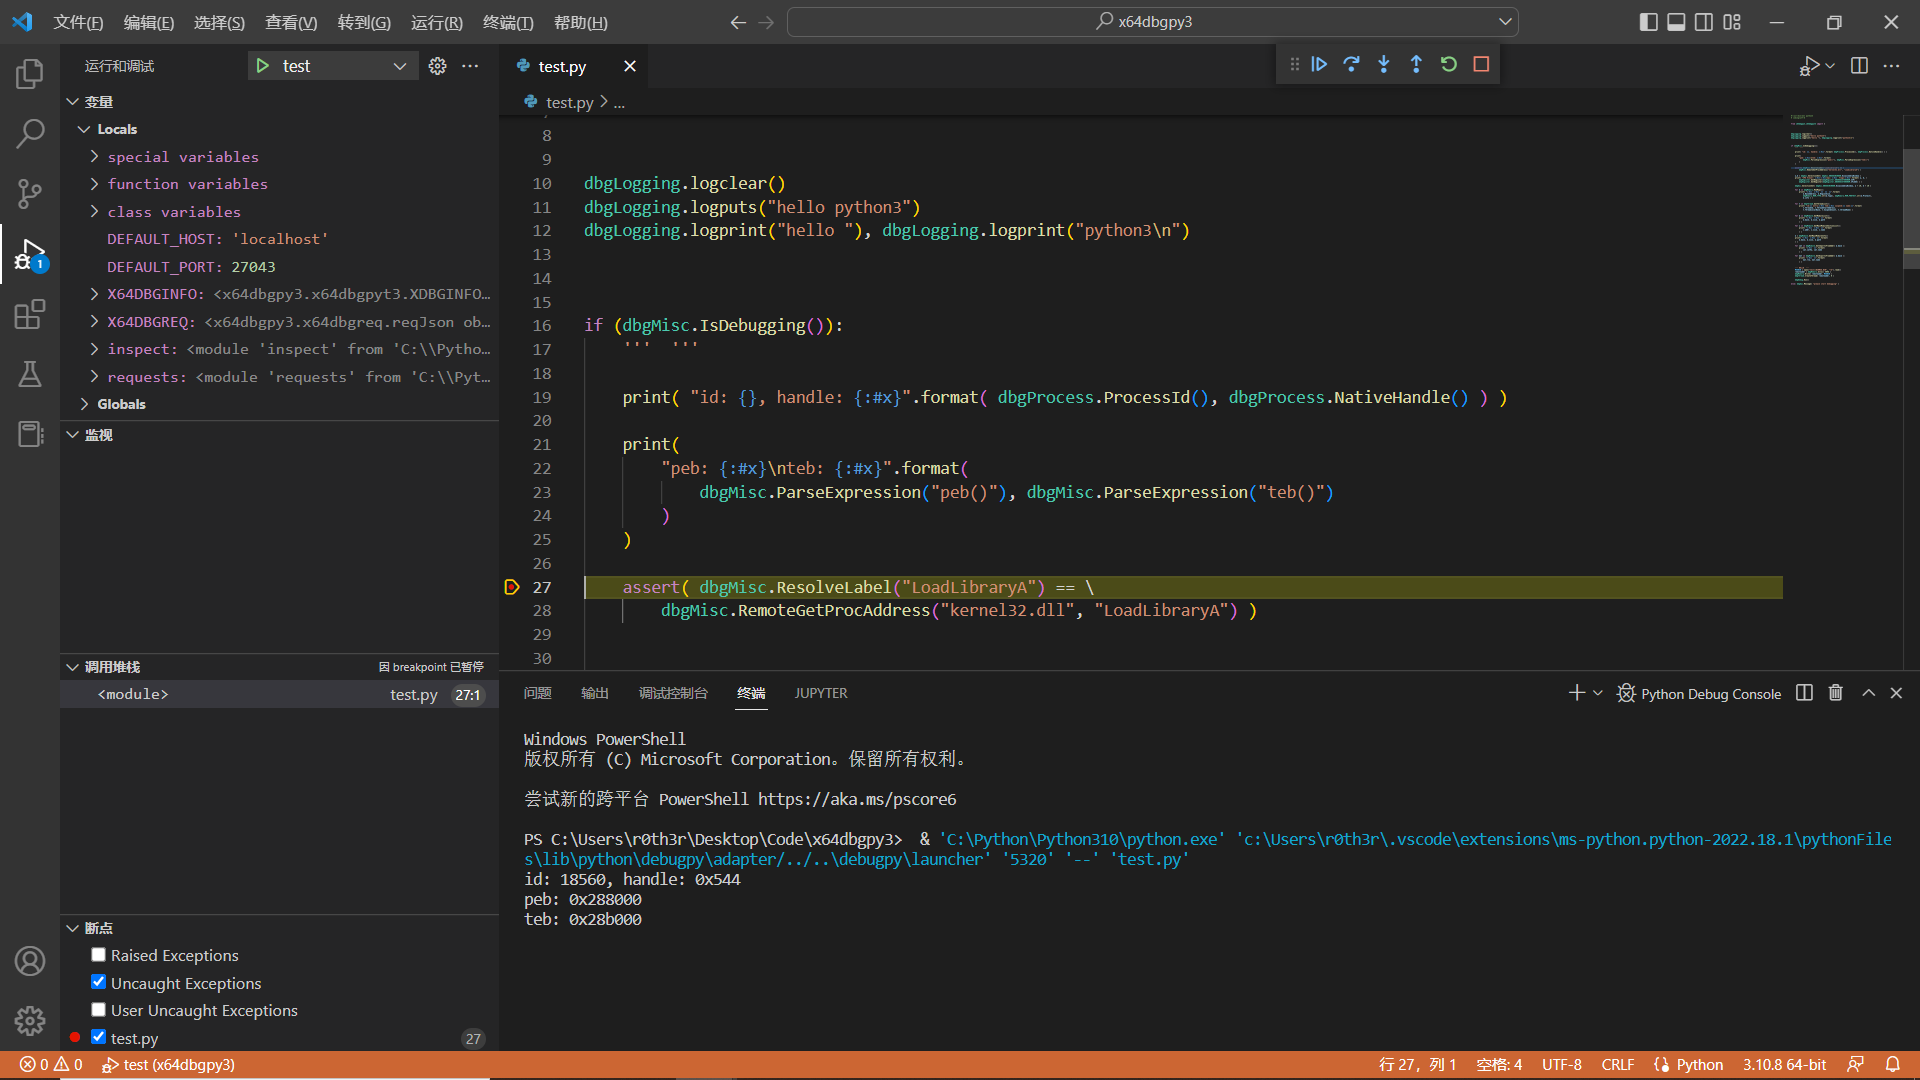
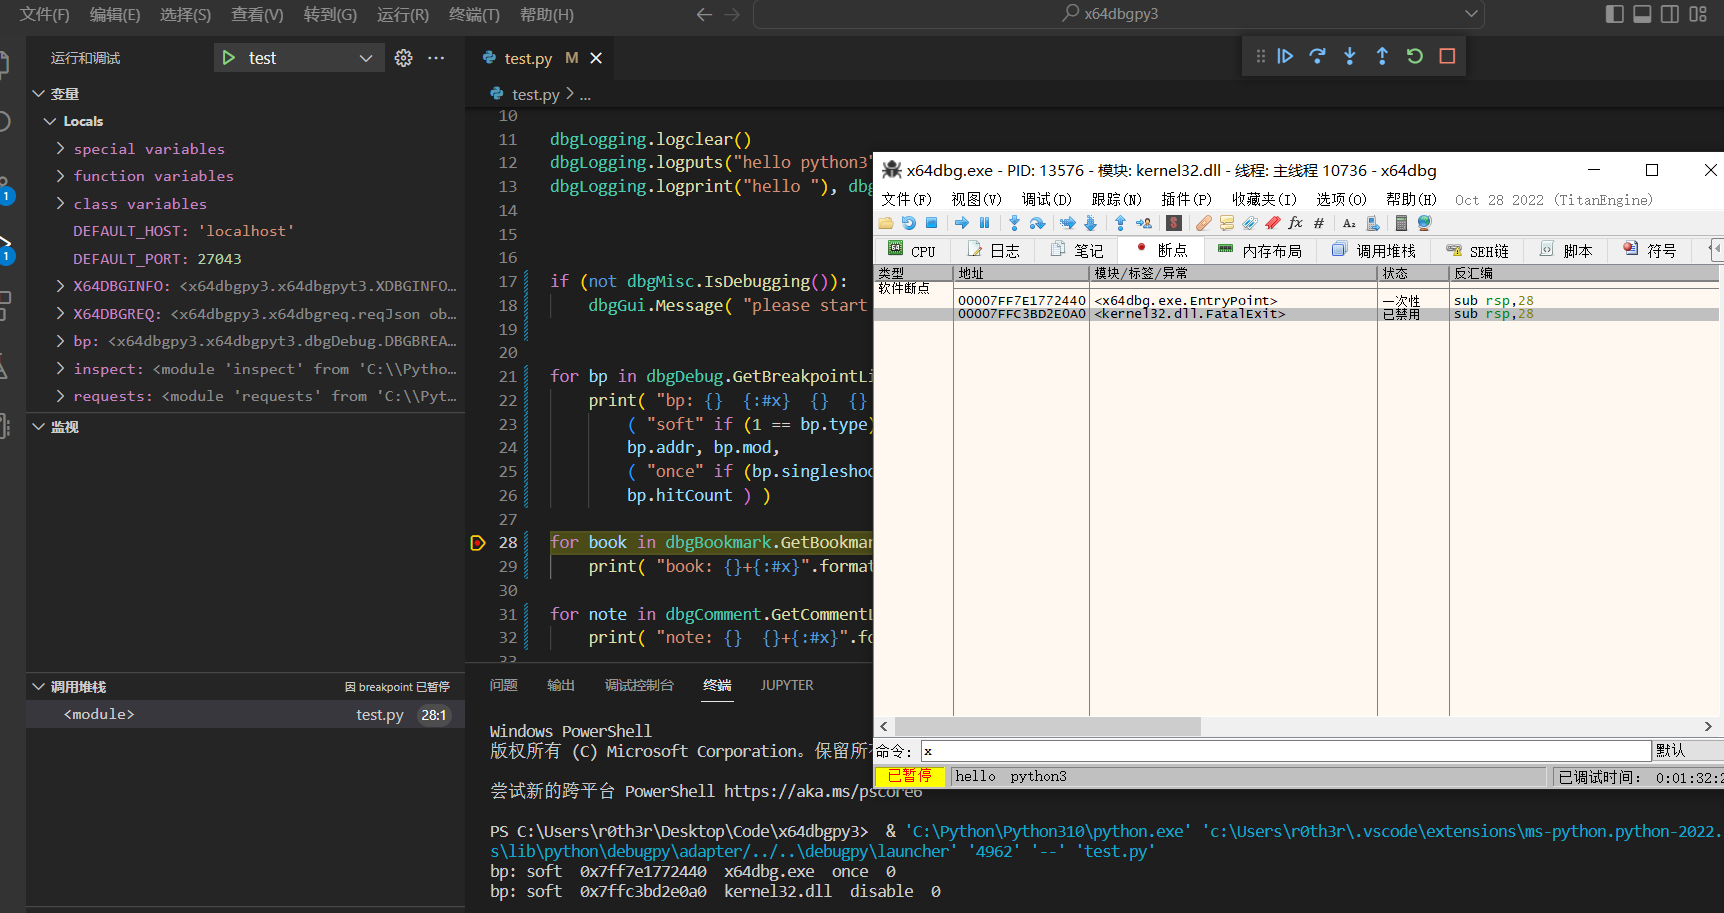
update

diff --git a/test.py b/test.py
@@ -14,100 +14,100 @@ dbgLogging.logprint("hello "), dbgLogging.logprint("python3\n")
 
 
 
-if (dbgMisc.IsDebugging()):
-    '''  '''
-
-    for bp in dbgDebug.GetBreakpointList():
-        print( "bp: {}  {:#x}  {}  {}  {}".format(
-            ( "soft" if (1 == bp.type) else ( "hard" if (2 == bp.type) else "蔡徐坤" ) ),
-            bp.addr, bp.mod, 
-            ( "once" if (bp.singleshoot) else ( "enable" if (bp.enabled) else "disable" ) ), 
-            bp.hitCount ) )
-
-    for book in dbgBookmark.GetBookmarkList():
-        print( "book: {}+{:#x}".format( book.mod,  book.rva ) )
-
-    for note in dbgComment.GetCommentList():
-        print( "note: {}  {}+{:#x}".format( note.text, note.mod,  note.rva ) )
-
-    for label in dbgLabel.GetLabelList():
-        print( "label: {}  {}+{:#x}".format( label.text, label.mod,  label.rva ) )
+if (not dbgMisc.IsDebugging()):
+    dbgGui.Message( "please start debugging" ), exit(0)
 
 
-    # for sym in dbgSymbol.GetSymbolList():
-    #     {  }
+for bp in dbgDebug.GetBreakpointList():
+    print( "bp: {}  {:#x}  {}  {}  {}".format(
+        ( "soft" if (1 == bp.type) else ( "hard" if (2 == bp.type) else "蔡徐坤" ) ),
+        bp.addr, bp.mod, 
+        ( "once" if (bp.singleshoot) else ( "enable" if (bp.enabled) else "disable" ) ), 
+        bp.hitCount ) )
 
-    # for func in dbgFunction.GetFunctionList():
-    #     {  }
+for book in dbgBookmark.GetBookmarkList():
+    print( "book: {}+{:#x}".format( book.mod,  book.rva ) )
 
-    # for argument in dbgArgument.GetArgumentList():
-    #     {  }
+for note in dbgComment.GetCommentList():
+    print( "note: {}  {}+{:#x}".format( note.text, note.mod,  note.rva ) )
+
+for label in dbgLabel.GetLabelList():
+    print( "label: {}  {}+{:#x}".format( label.text, label.mod,  label.rva ) )
 
 
-    print( "id: {}, handle: {:#x}".format( dbgProcess.ProcessId(), dbgProcess.NativeHandle() ) )
+# for sym in dbgSymbol.GetSymbolList():
+#     {  }
 
-    print(
-        "peb: {:#x}\nteb: {:#x}".format( 
-            dbgMisc.ParseExpression("peb()"), dbgMisc.ParseExpression("teb()")
-        )
+# for func in dbgFunction.GetFunctionList():
+#     {  }
+
+# for argument in dbgArgument.GetArgumentList():
+#     {  }
+
+
+print( "id: {}, handle: {:#x}".format( dbgProcess.ProcessId(), dbgProcess.NativeHandle() ) )
+
+print(
+    "peb: {:#x}\nteb: {:#x}".format( 
+        dbgMisc.ParseExpression("peb()"), dbgMisc.ParseExpression("teb()")
     )
+)
 
-    assert( dbgMisc.ResolveLabel("LoadLibraryA") == \
-        dbgMisc.RemoteGetProcAddress("kernel32.dll", "LoadLibraryA") )
-
-
-    a, b = dbgGui.SelectionGet( dbgGui.DBGGUIWINDOW.DisassemblyWindow )
-    print( "CPU Viewer: {:#x}-{:#x}\npc: {:#x}  flags:{:#x}".format( a, b, \
-        dbgRegister.GetRegister(dbgRegister.DBGREGISTERENUM.CIP) ,
-        dbgRegister.GetRegister(dbgRegister.DBGREGISTERENUM.CFLAGS) ) )
-
-    dbgGui.SelectionSet( dbgGui.DBGGUIWINDOW.DisassemblyWindow, a + 10, b + 10 )
-
-    for m in dbgMemory.MemMaps():
-        print( "{:#x}  {:#x}  {}  {}  {}".format(
-            m.BaseAddress, m.RegionSize, 
-            dbgMemory.MEM_TYPE.str(m.Type), dbgMemory.MEM_PROTECT.str(m.Protect), 
-            m.info ) )
+assert( dbgMisc.ResolveLabel("LoadLibraryA") == \
+    dbgMisc.RemoteGetProcAddress("kernel32.dll", "LoadLibraryA") )
 
 
-    for t in dbgThread.GetThreadList():
-        print( "id:{} entry:{:#x} teb:{:#x} suspend:{} name:{}".format(
-            t.ThreadId, t.ThreadStartAddress, 
-            t.ThreadLocalBase, t.SuspendCount, t.threadName) )
+a, b = dbgGui.SelectionGet( dbgGui.DBGGUIWINDOW.DisassemblyWindow )
+print( "CPU Viewer: {:#x}-{:#x}\npc: {:#x}  flags:{:#x}".format( a, b, \
+    dbgRegister.GetRegister(dbgRegister.DBGREGISTERENUM.CIP) ,
+    dbgRegister.GetRegister(dbgRegister.DBGREGISTERENUM.CFLAGS) ) )
+
+dbgGui.SelectionSet( dbgGui.DBGGUIWINDOW.DisassemblyWindow, a + 10, b + 10 )
+
+for m in dbgMemory.MemMaps():
+    print( "{:#x}  {:#x}  {}  {}  {}".format(
+        m.BaseAddress, m.RegionSize, 
+        dbgMemory.MEM_TYPE.str(m.Type), dbgMemory.MEM_PROTECT.str(m.Protect), 
+        m.info ) )
 
 
-    for m in dbgModule.GetModuleList():
-        print( "{:#x}  {:#x}  {}".format(
-            m.base, m.size, m.path
-        ) )
+for t in dbgThread.GetThreadList():
+    print( "id:{} entry:{:#x} teb:{:#x} suspend:{} name:{}".format(
+        t.ThreadId, t.ThreadStartAddress, 
+        t.ThreadLocalBase, t.SuspendCount, t.threadName) )
 
-    for s in dbgModule.GetMainModuleSectionList():
-        print( "{:#x}  {:#x}  {}".format(
-            s.addr, s.size, s.name
-        ) )
 
-    m = dbgModule.GetMainModuleInfo()
+for m in dbgModule.GetModuleList():
     print( "{:#x}  {:#x}  {}".format(
         m.base, m.size, m.path
     ) )
 
-    for iat in dbgModule.GetImportsFromAddr( m.base ):
-        print( "{:#x}  {}".format(
-            iat.iatVa, iat.name
-        ) )
+for s in dbgModule.GetMainModuleSectionList():
+    print( "{:#x}  {:#x}  {}".format(
+        s.addr, s.size, s.name
+    ) )
 
-    for eat in dbgModule.GetExportsFromAddr( m.base ):
-        print( "{:#x}  {}".format(
-            eat.rva, eat.name
-        ) )
+m = dbgModule.GetMainModuleInfo()
+print( "{:#x}  {:#x}  {}".format(
+    m.base, m.size, m.path
+) )
+
+for iat in dbgModule.GetImportsFromAddr( m.base ):
+    print( "{:#x}  {}".format(
+        iat.iatVa, iat.name
+    ) )
+
+for eat in dbgModule.GetExportsFromAddr( m.base ):
+    print( "{:#x}  {}".format(
+        eat.rva, eat.name
+    ) )
 
 
-    ''' HELLO  '''
-    MSGBIN = open("test\\BINMSG.BIN", "rb").read()
-    remoteaddr = dbgMemory.Alloc( 4096 )
-    dbgMemory.Write( remoteaddr, MSGBIN ), time.sleep(1)
+''' HELLO  '''
+MSGBIN = open("test\\BINMSG.BIN", "rb").read()
+remoteaddr = dbgMemory.Alloc( 4096 )
+dbgMemory.Write( remoteaddr, MSGBIN ), time.sleep(1)
 
-    dbgDebug.Run(), time.sleep(1), \
-        dbgThread.CreateThread( remoteaddr, 0 )
+dbgDebug.Run(), time.sleep(1), \
+    dbgThread.CreateThread( remoteaddr, 0 )
 
-else: dbgGui.Message( "please start debugging" )
